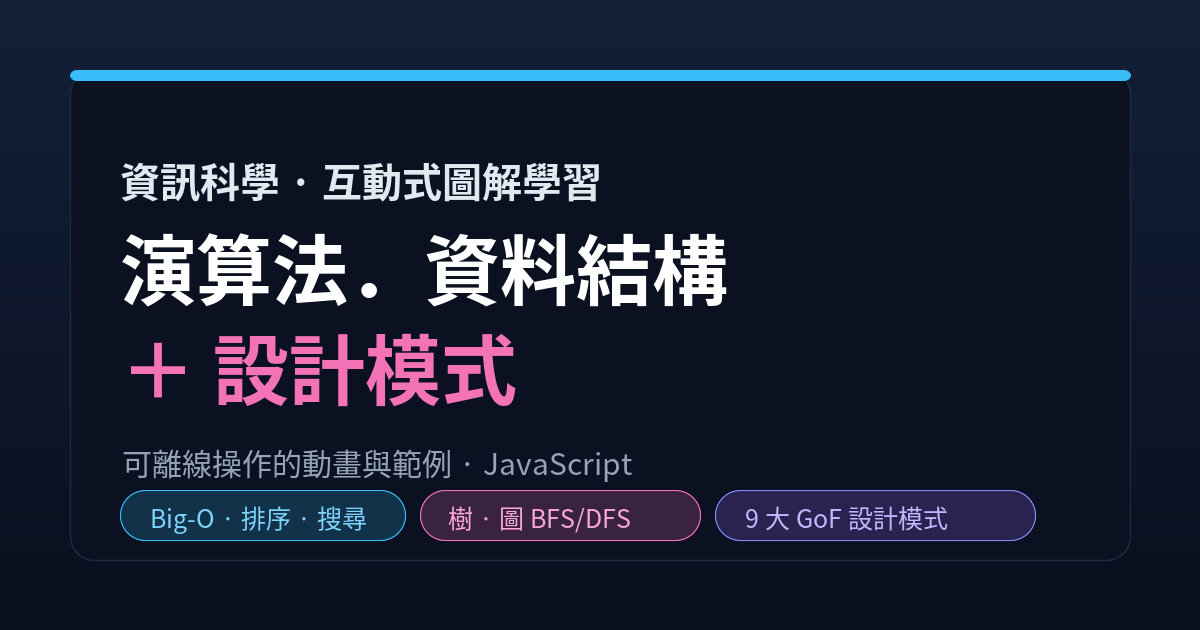
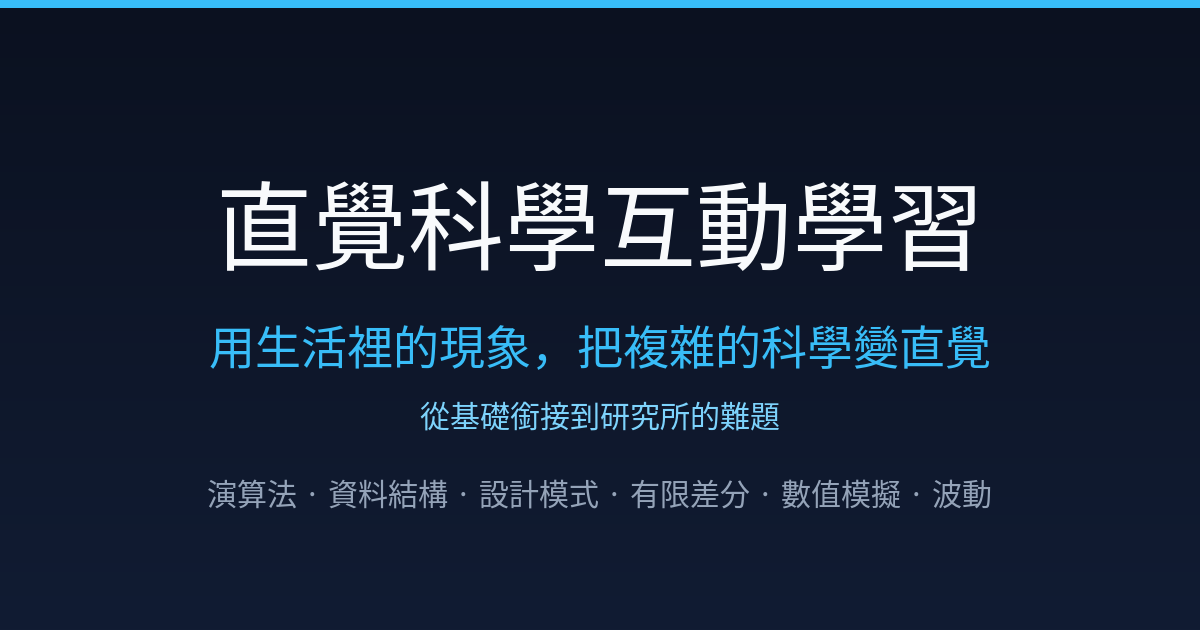
Add files via upload

diff --git a/index.html b/index.html
@@ -3,15 +3,15 @@
 <head>
 <meta charset="UTF-8">
 <meta name="viewport" content="width=device-width, initial-scale=1.0">
-<title>資訊科學互動學習｜演算法、資料結構與設計模式（圖解 + JavaScript）</title>
-<meta name="description" content="用生活比喻、圖解與可操作動畫學會演算法、資料結構與設計模式。涵蓋 Big-O、排序、二分搜尋、樹與圖、陣列、鏈結串列、雜湊表，以及 9 大 GoF 設計模式，程式碼以 JavaScript 示範，適合初學到面試複習。">
-<meta name="keywords" content="演算法, 資料結構, 設計模式, Big-O, 排序, 二分搜尋, BFS, DFS, 雜湊表, 鏈結串列, 堆疊, 佇列, Design Patterns, JavaScript 教學, 資訊工程">
+<title>直覺科學互動學習｜從演算法到有限差分與數值模擬（圖解 + JavaScript）</title>
+<meta name="description" content="用生活比喻、圖解與可操作動畫，把科學與工程的基礎變直覺：演算法、資料結構、設計模式，以及有限差分、數值模擬、波動與水波理論。程式碼以 JavaScript 示範，適合初學到複習。">
+<meta name="keywords" content="演算法, 資料結構, 設計模式, Big-O, 有限差分, 數值模擬, 歐拉法, 波動方程, 二階導數, 微積分, finite difference, Design Patterns, JavaScript 教學">
 <meta name="robots" content="index, follow">
 <link rel="canonical" href="https://claytonshih.github.io/">
 <meta property="og:type" content="website">
-<meta property="og:site_name" content="資訊科學互動學習">
-<meta property="og:title" content="資訊科學互動學習｜演算法、資料結構與設計模式">
-<meta property="og:description" content="生活比喻＋圖解＋可操作動畫，一次搞懂演算法、資料結構與 9 大設計模式。JavaScript 範例，可離線開啟。">
+<meta property="og:site_name" content="直覺科學互動學習">
+<meta property="og:title" content="直覺科學互動學習｜從演算法到有限差分與數值模擬">
+<meta property="og:description" content="生活比喻＋圖解＋可操作動畫，把科學與工程的基礎變直覺：演算法、資料結構、設計模式、有限差分、數值模擬與波動。可離線開啟。">
 <meta property="og:url" content="https://claytonshih.github.io/">
 <meta property="og:image" content="https://claytonshih.github.io/og-cover.png">
 <meta property="og:image:width" content="1200">
@@ -25,9 +25,9 @@
 {
   "@context":"https://schema.org",
   "@type":"WebSite",
-  "name":"資訊科學互動學習",
+  "name":"直覺科學互動學習",
   "url":"https://claytonshih.github.io/",
-  "description":"以圖解與互動動畫講解演算法、資料結構與設計模式的中文學習網站。",
+  "description":"以圖解與互動動畫講解科學與工程基礎的中文學習網站：演算法、資料結構、設計模式、有限差分、數值模擬與波動理論。",
   "inLanguage":"zh-Hant"
 }
 </script>
@@ -36,19 +36,20 @@
 </head>
 <body>
 <header class="topnav">
-  <a href="index.html" class="logo">📚 資訊科學互動學習</a>
+  <a href="index.html" class="logo">📚 直覺科學互動學習</a>
   <a href="index.html" class="nl active">首頁</a>
   <a href="algorithms/index.html" class="nl">演算法</a>
   <a href="data-structures/index.html" class="nl">資料結構</a>
   <a href="design-patterns/index.html" class="nl">設計模式</a>
+  <a href="finite-difference/index.html" class="nl">有限差分</a>
   <a href="numerical/index.html" class="nl">數值模擬</a>
   <a href="wave/index.html" class="nl">波動模擬</a>
   <a href="airy/index.html" class="nl">水波理論</a>
 </header>
 
 <section class="hero">
-  <h1>用圖解與互動，把<span class="accent">演算法、資料結構、設計模式</span>學起來</h1>
-  <p>不背死公式，用生活比喻＋可以按按鈕的動畫理解每個觀念。程式碼以 JavaScript 示範，從初學到面試複習都適用。</p>
+  <h1>用<span class="accent">生活裡的現象</span>，把複雜的科學變直覺</h1>
+  <p>不背死公式——用簡單、實際的例子和可以按按鈕的動畫，把抽象觀念說清楚，替你從基礎<strong>銜接到研究所的難題</strong>。內容橫跨資訊科學（演算法、資料結構、設計模式）與計算物理（有限差分、數值模擬、波動與水波理論），程式碼以 JavaScript 示範。</p>
 </section>
 
 <!-- ===== 廣告版位：頂部橫幅（leaderboard）===== -->
@@ -76,6 +77,12 @@
     <p>SOLID 原則與 9 大 GoF 設計模式：Singleton、Factory、Observer、Strategy 等，附互動示範。</p>
     <span class="go">開始學 →</span>
   </a>
+  <a href="finite-difference/index.html" class="tcard">
+    <div class="emoji">➗</div>
+    <h3>有限差分</h3>
+    <p>為什麼需要它？把「無限小的 dx」換成「小但真實的 Δx」，讓微積分變成電腦會做的加減乘除。含割線→切線、三種差分對照。</p>
+    <span class="go">開始學 →</span>
+  </a>
   <a href="numerical/index.html" class="tcard">
     <div class="emoji">🔢</div>
     <h3>數值模擬</h3>
@@ -94,13 +101,13 @@
 <main class="content">
 <section>
   <h2>這個網站想解決什麼問題？</h2>
-  <p>很多人第一次學演算法與資料結構時，卡在「看得懂定義，卻不知道它在幹嘛」。教科書上的 Big-O、指標、遞迴，往往用抽象符號描述，少了直覺。這個網站的做法相反：<strong>先給你一個生活場景的比喻，再用圖解拆開結構，最後放一個可以自己按按鈕操作的小動畫</strong>，讓你親眼看到資料怎麼移動、演算法怎麼一步步逼近答案。</p>
-  <p>舉例來說，二分搜尋不是一段冷冰冰的 while 迴圈，而是「猜 1 到 100 的數字，每次都先猜正中間」的遊戲；堆疊不是 LIFO 三個字母，而是「一疊盤子，最後放上去的最先拿走」。當你把抽象觀念綁在熟悉的畫面上，記憶與理解都會牢固很多。</p>
+  <p>很多理工觀念第一次學都卡在同一件事：「看得懂定義，卻不知道它在幹嘛」。不管是演算法的 Big-O、資料結構的指標，還是微積分的導數、物理的波動方程，教科書往往用抽象符號描述，少了直覺。這個網站的做法相反：<strong>先給你一個生活場景的比喻，再用圖解拆開結構，最後放一個可以自己按按鈕操作的小動畫</strong>，讓你親眼看到資料怎麼流動、公式怎麼一步步跑出答案。</p>
+  <p>舉例來說，二分搜尋不是冷冰冰的 while 迴圈，而是「猜 1 到 100，每次先猜正中間」的遊戲；二階導數不是嚇人的符號，而是「你比左右鄰居的平均高還是低」；波動方程不是一串偏微分，而是「撥一下弦、丟一顆石頭」。當你把抽象觀念綁在熟悉的畫面上，理解和記憶都會牢固很多。</p>
   <h3>適合誰？</h3>
-  <p>正在修資料結構課程的學生、準備軟體工程師面試的求職者、想補足底子的自學工程師，或任何對「電腦怎麼有效率地處理資料」感到好奇的人。每一頁都從最基本的概念講起，不預設你已經會了什麼。</p>
+  <p>修資料結構、數值方法、工程數學或普通物理的學生，準備面試的工程師，想補底子的自學者，或任何對「這些公式到底在做什麼」感到好奇的人。每一頁都從最基本的概念講起，不預設你已經會了什麼。</p>
   <h3>怎麼使用</h3>
-  <p>三大主題各自獨立成一頁，你可以照順序讀，也可以直接跳到需要的章節。每頁右側都有本頁目錄，方便快速定位。所有互動元件都是純前端 JavaScript，不需要安裝任何東西，把網頁存下來也能離線使用。</p>
-  <div class="tip">建議路線：先看<a href="algorithms/index.html">演算法</a>裡的 Big-O，建立「快與慢」的直覺；再讀<a href="data-structures/index.html">資料結構</a>理解不同結構的取捨；最後用<a href="design-patterns/index.html">設計模式</a>把這些觀念用在實際的程式設計上。</div>
+  <p>每個主題各自獨立成一頁，你可以照順序讀，也可以直接跳到需要的章節。每頁右側都有本頁目錄，方便快速定位。所有互動元件都是純前端 JavaScript，不需要安裝任何東西，把網頁存下來也能離線使用。</p>
+  <div class="tip">建議路線：想學<strong>資訊科學</strong>就先看<a href="algorithms/index.html">演算法</a>建立「快與慢」的直覺，再讀<a href="data-structures/index.html">資料結構</a>與<a href="design-patterns/index.html">設計模式</a>；想補<strong>數學與物理</strong>就從<a href="finite-difference/index.html">有限差分</a>開始（為什麼要把微積分變成加減乘除），再進到<a href="numerical/index.html">數值模擬</a>與<a href="wave/index.html">波動模擬</a>。兩條線都不需要先修基礎。</div>
 </section>
 </main>
 <aside class="rail">
@@ -117,7 +124,7 @@
     <a href="privacy/index.html">隱私權政策</a>
     <a href="contact/index.html">聯絡我們</a>
   </div>
-  © 2026 資訊科學互動學習 ｜ 內容以圖解與 JavaScript 互動示範，供學習用途。
+  © 2026 直覺科學互動學習 ｜ 內容以圖解與 JavaScript 互動示範，供學習用途。
 </footer>
 </body>
 </html>